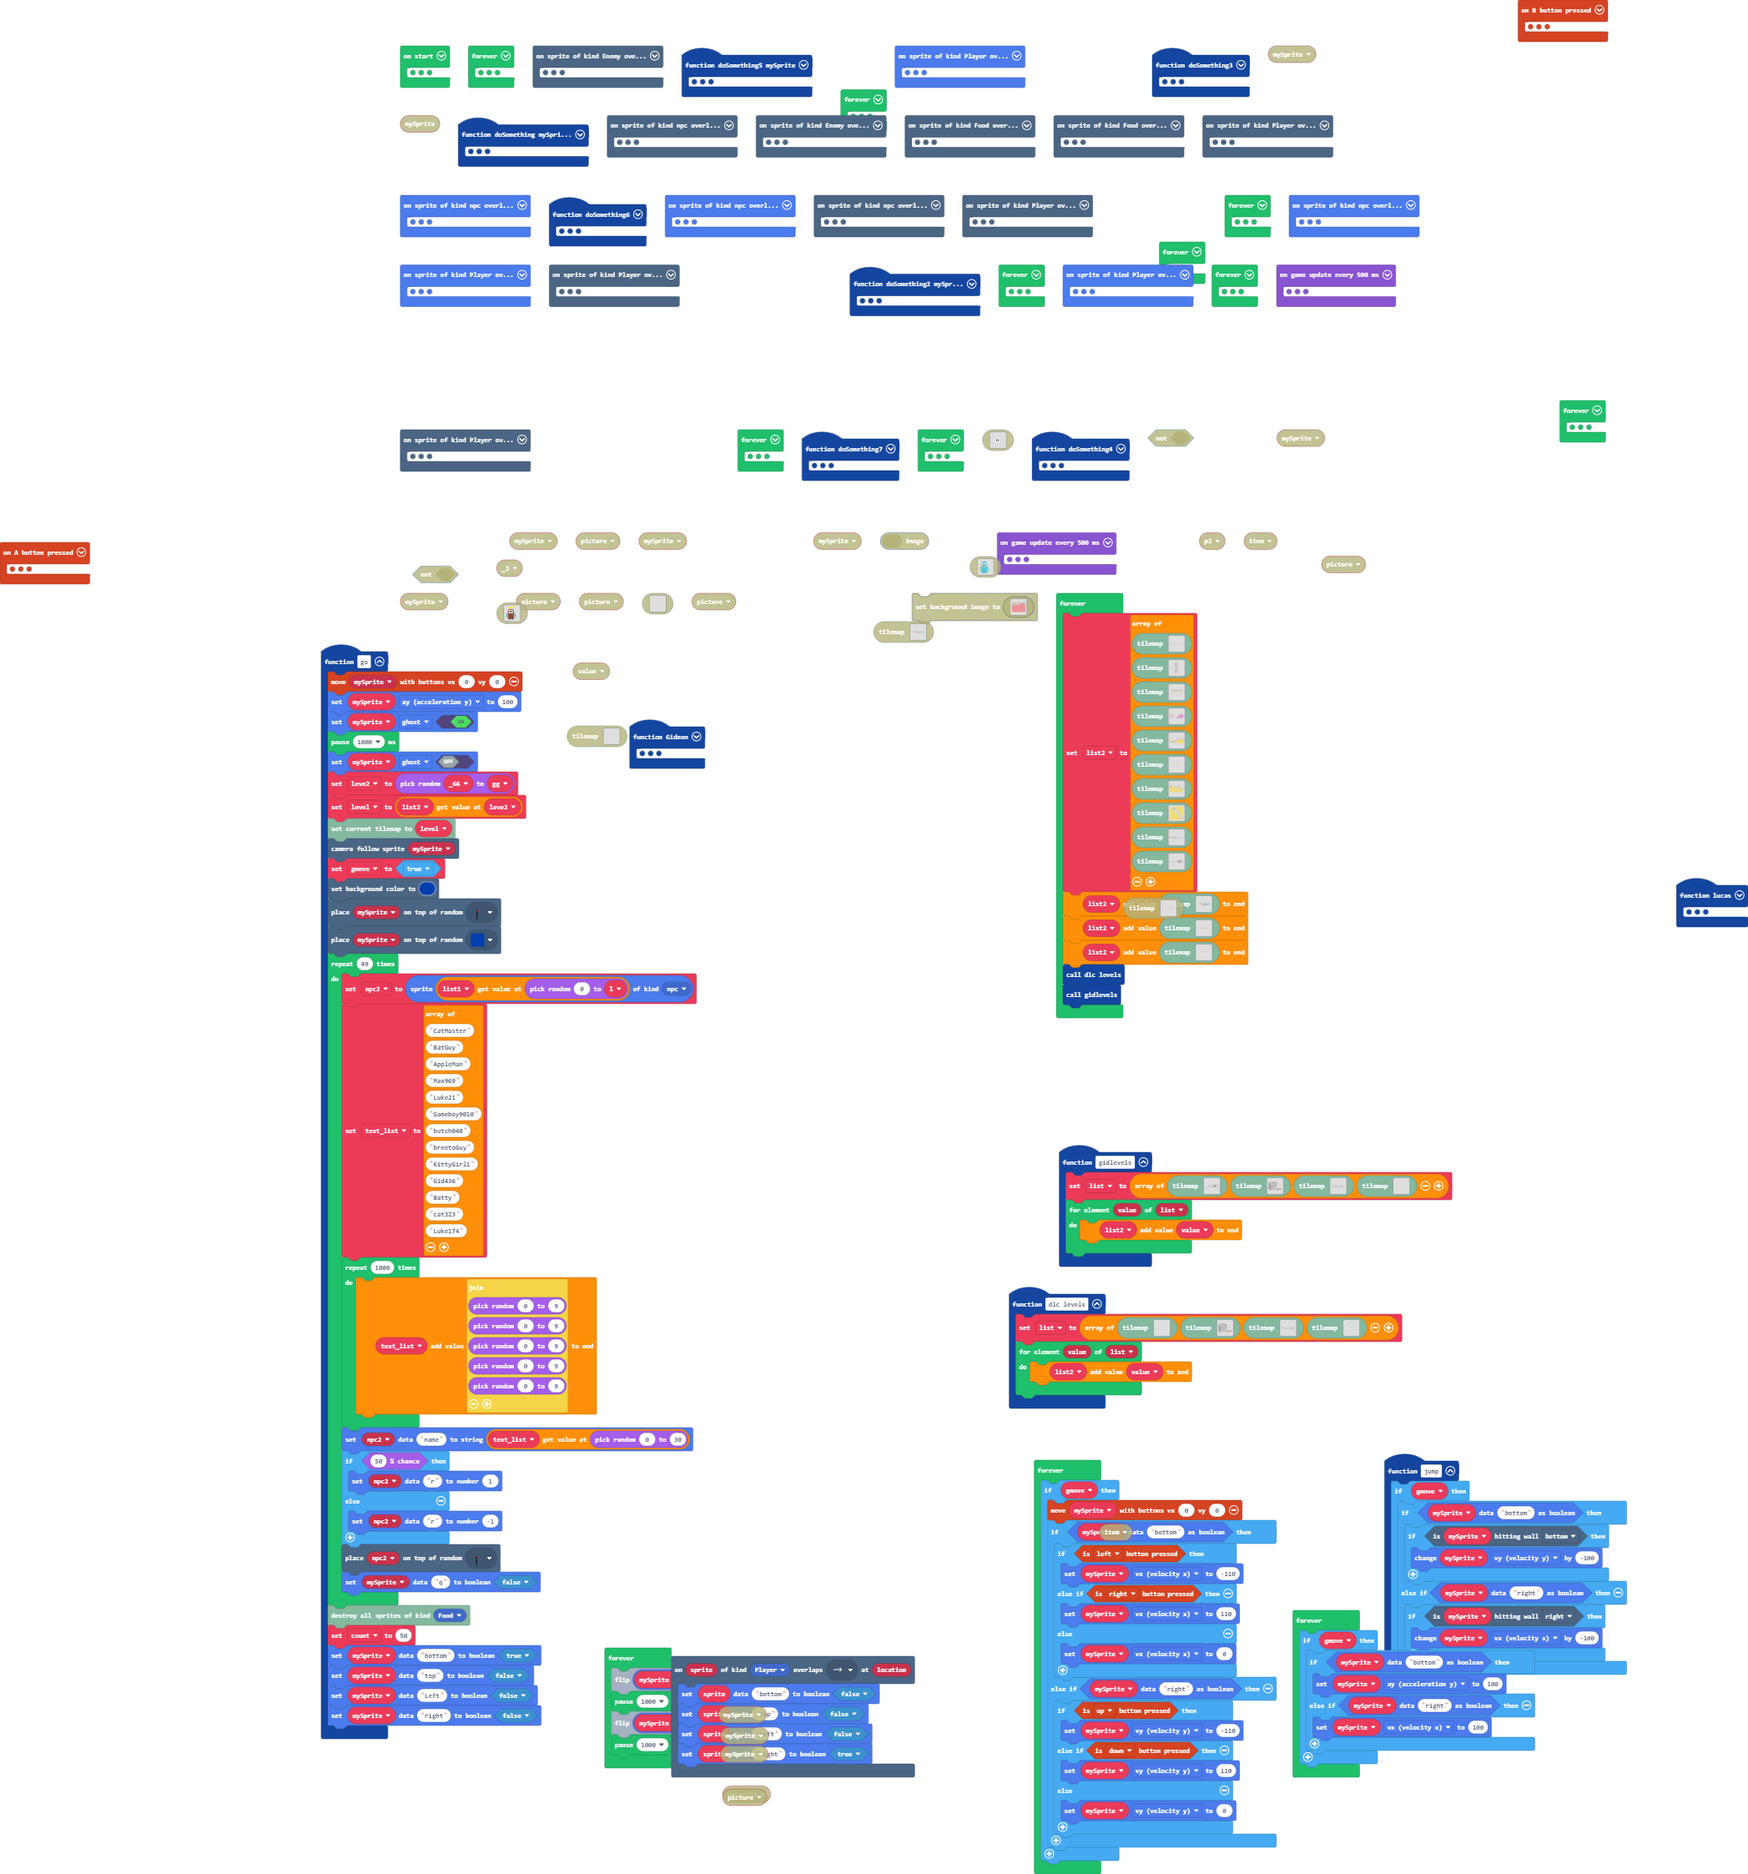
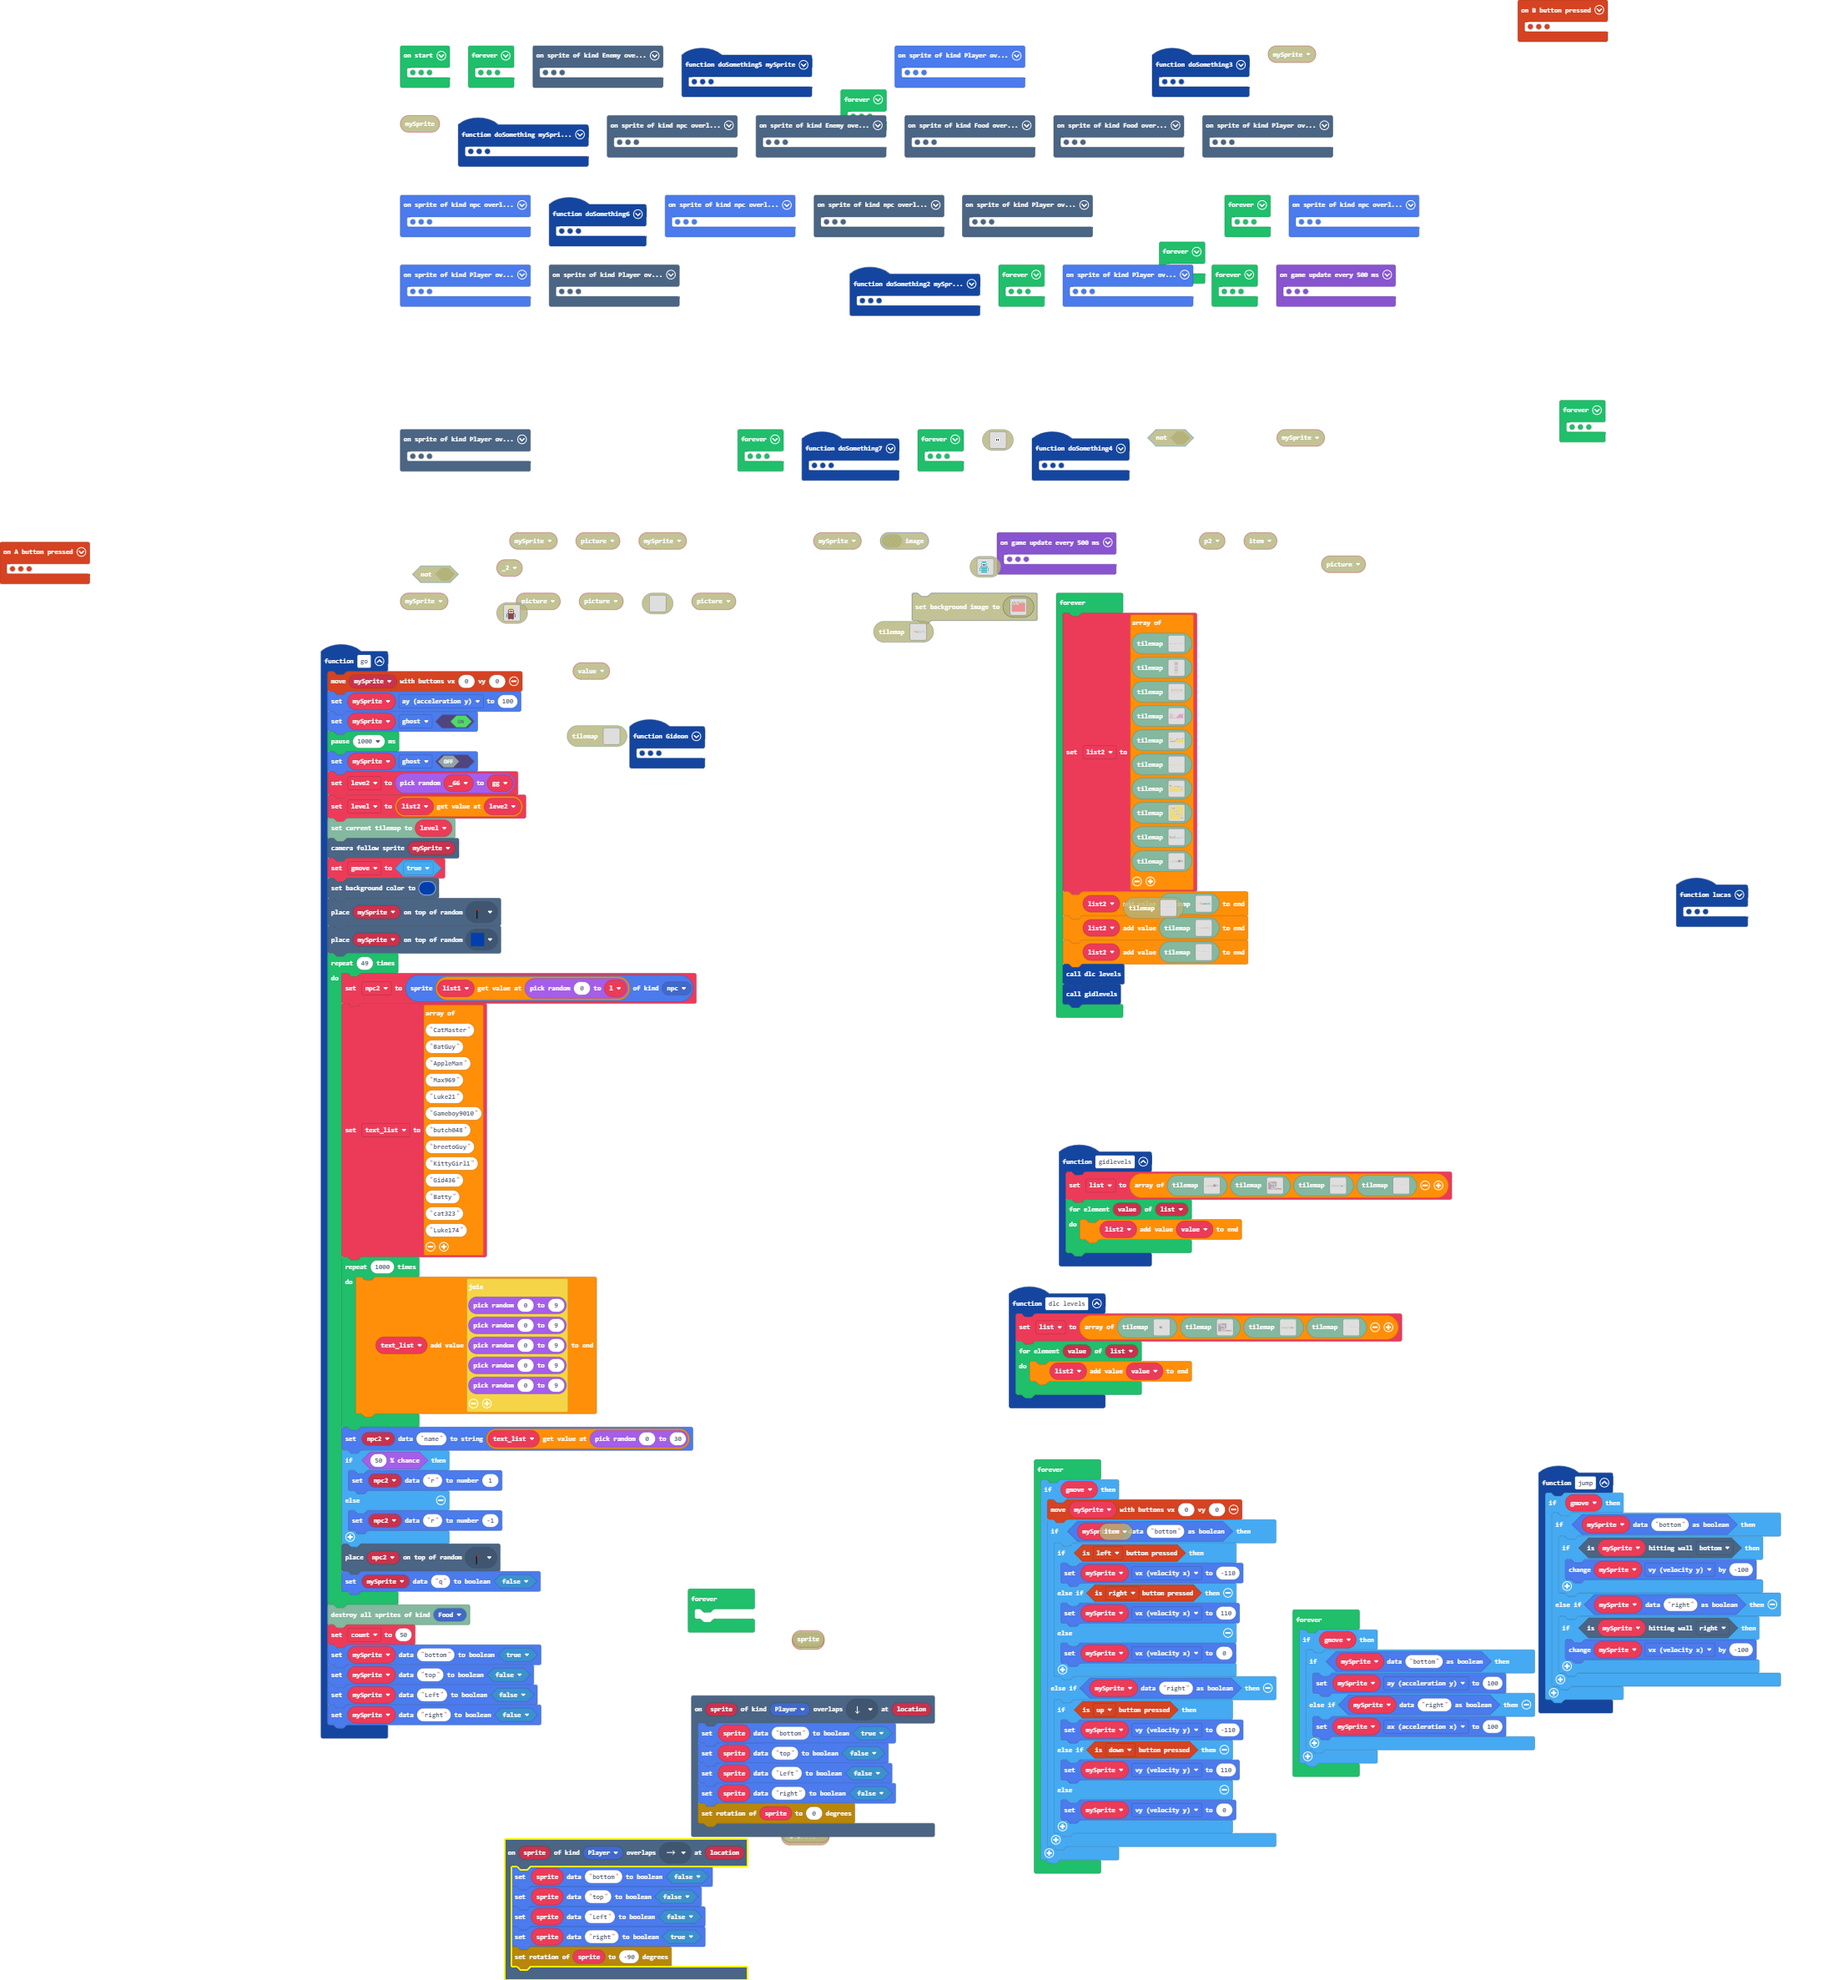
Update pxt.json, main.blocks, main.ts, tilemap.g.jres, tilemap.g.ts

diff --git a/main.ts b/main.ts
@@ -1,6 +1,13 @@
 namespace SpriteKind {
     export const npc = SpriteKind.create()
 }
+scene.onOverlapTile(SpriteKind.Player, myTiles.tile44, function (sprite, location) {
+    sprites.setDataBoolean(sprite, "bottom", true)
+    sprites.setDataBoolean(sprite, "top", false)
+    sprites.setDataBoolean(sprite, "Left", false)
+    sprites.setDataBoolean(sprite, "right", false)
+    transformSprites.rotateSprite(sprite, 0)
+})
 sprites.onOverlap(SpriteKind.Player, SpriteKind.npc, function (sprite, otherSprite) {
     for (let index = 0; index < 4; index++) {
         if (sprite.y > otherSprite.y) {
@@ -1060,6 +1067,7 @@ scene.onOverlapTile(SpriteKind.Player, myTiles.tile43, function (sprite, locatio
     sprites.setDataBoolean(sprite, "top", false)
     sprites.setDataBoolean(sprite, "Left", false)
     sprites.setDataBoolean(sprite, "right", true)
+    transformSprites.rotateSprite(sprite, -90)
 })
 sprites.onOverlap(SpriteKind.npc, SpriteKind.npc, function (sprite, otherSprite) {
     for (let index = 0; index < 4; index++) {
@@ -1342,24 +1350,24 @@ scene.onOverlapTile(SpriteKind.Player, myTiles.tile24, function (sprite, locatio
     game.over(true)
 })
 function dlc_levels () {
-    list = [tiles.createMap(tiles.createTilemap(hex`6400100000000000000003030303030303030303030303030303030303030300000000000000000000000000000000000000000000000000000000000000000000000000000000000000000000000000000000000000000000000000000000000000000000000008000000000000030303030303030303030000000000000000000000000000000000000000000000000000000000000000000000000000000000000000000000000000000000000000000000000000000000000000000000000000000000000000000000080000000000000303030303030303030300000000000000000000000000000000000000000000000000000000000000000000000000000000000000000000000000000000000000000000000000000000000000000000000000000000000000000000000805000000000003030303030303030303000000000000000003030300000000000000000000000000000000000000000000000000000000000000000000000000000000000000000000000000000000000000000000000000000000000000000000000008000000000000030303030303030303030000000000000000000303000000000000000000000000000000000000000000000000000000000000000000000000000000000000000000000000000000000000000000000000000000000000000000000000080000000000000303030303030303030300000000000003030303030000000000000000000000000000000000000000000000000000000000000000000000000000000000000000000000000000000000000000000000000000000000000000000000000805000000000003030303030303030303000000000000000303030300000000000000000000000000000000000000000000000000000000000000000000000000000000000000000000000000000000000000000000000000000000000000000000000008040404040000030303030303030303030000000000000303030303000000000000000000000000000000000000000000000000000000000000000000000000000000000000000000000000000000000000000000000000000000000000000000000000080000000000000303030303030303030300000000000000030303030000000000000000000000000000000000000000000000000000000000000000000000000000000000000000000000000000000000000000000000000000000000000000000000000800000000000003030303030303030303000000000000000003030300000000000000000000000000000000000000000000000000000000000000000000000000000000000000000000000000000000000000000000000000000000000000000000000008000000000000000000000000000700000000000000030303030303000000000000000000000000000000000000000000000000000000000000000000000000000000000000000000000000000000000000000000000000000000000000000000000000080000000000000000000000000007000000000003030303030303030000000000000000000000000000000000000000000000000000000000000000000000000000000000000000000000000000000000000000000000000000000000000000000000000800000000000000000000000000070000000000030303030303030300000000000000000000000000000000000000000000000000000000000000000000000000000000000000000000000000000000000000000000000000000000000000000000000008000000000000000600000000000700000003030303030303030303000000000000000000000000000000000000000000000000000000000000000000000000000000000000000000000000000000000000000000000000000000000000000000000000080101010101010303030303030303030303030303030303030303030000000000000000000000000000000000000000000000000000000000000000000000000000000000000000000000000000000000000000000000000000000000000000000000000802020202020203030303030303030303030303030303030303030300000000000000000000000000000000000000000000000000000000000000000000000000000000000000000000000000000000000000000000000000000000000000000000000008`, img`
-        ......222222222222222222222.........................................................................
-        ......2222222222....................................................................................
-        ......2222222222....................................................................................
-        ......2222222222........222.........................................................................
-        ......2222222222.........22.........................................................................
-        ......2222222222......22222.........................................................................
-        ......2222222222.......2222.........................................................................
-        2222..2222222222......22222.........................................................................
-        ......2222222222.......2222.........................................................................
-        ......2222222222........222.........................................................................
-        .....................222222.........................................................................
-        ...................22222222.........................................................................
-        ...................22222222.........................................................................
-        .................2222222222.........................................................................
-        222222222222222222222222222.........................................................................
-        ......222222222222222222222.........................................................................
[2 lines of base64/hex data omitted]
+        ......222222222222222222222222.............2......2.................................................
+        ......2222222222............22.............2......2.................................................
+        ......2222222222............22..22222222....2.....2.................................................
+        ......2222222222........222.22..222222222....2....2.................................................
+        ......2222222222.........22.22..222222222....2....2.................................................
+        ......2222222222......22222.22...222222222....2...2.................................................
+        ......2222222222.......2222.22....22222222....2...2.................................................
+        2222..2222222222......22222.22.....22222222....2..2.................................................
+        ......2222222222.......2222.22......2222222.....2.2.................................................
+        ......2222222222........222.22.......2222222....2.2.................................................
+        .....................222222.22........222222.....22.................................................
+        ...................22222222.22........2222222....22.................................................
+        ...................22222222.22......222222222.....2...222...........................................
+        .................2222222222........22222222222.......2222...........................................
+        222222222222222222222222222.......222222222222......22222...........................................
+        ......222222222222222222222222222222222222222222222222222...........................................
[1 lines of base64/hex data omitted]
         222222222222222222222222222222222222222222222222222222222222......2.................................
         222222222222222222222222222222222222222222222222222222222222......2.................................
         2.................................................................2.................................
@@ -4084,19 +4092,16 @@ forever(function () {
     }
 })
 forever(function () {
+	
+})
+forever(function () {
     if (gmove) {
         if (sprites.readDataBoolean(mySprite, "bottom")) {
             mySprite.ay = 100
         } else if (sprites.readDataBoolean(mySprite, "right")) {
-            mySprite.vx = 100
+            mySprite.ax = 100
         }
     }
-})
-forever(function () {
-    mySprite.image.flipY()
-    pause(1000)
-    mySprite.image.flipX()
-    pause(1000)
 })
 game.onUpdateInterval(500, function () {
     for (let value18 of tiles.getTilesByType(myTiles.tile12)) {

diff --git a/tilemap.g.ts b/tilemap.g.ts
@@ -88,6 +88,8 @@ namespace myTiles {
     export const tile42 = image.ofBuffer(hex``);
     //% fixedInstance jres blockIdentity=images._tile
     export const tile43 = image.ofBuffer(hex``);
+    //% fixedInstance jres blockIdentity=images._tile
+    export const tile44 = image.ofBuffer(hex``);
 
 }
 // Auto-generated code. Do not edit.
